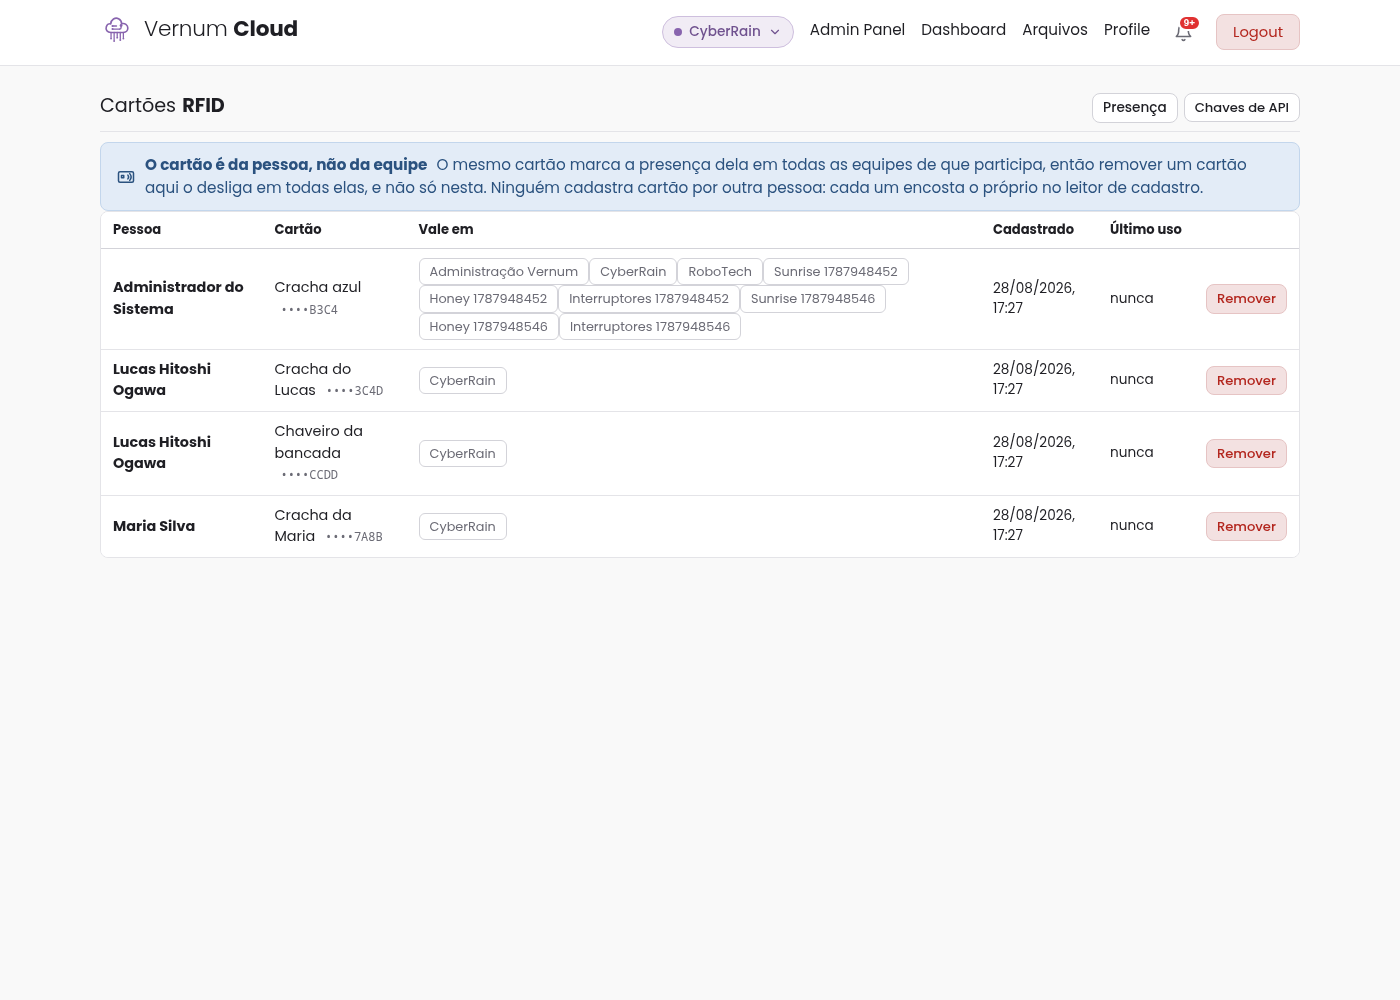
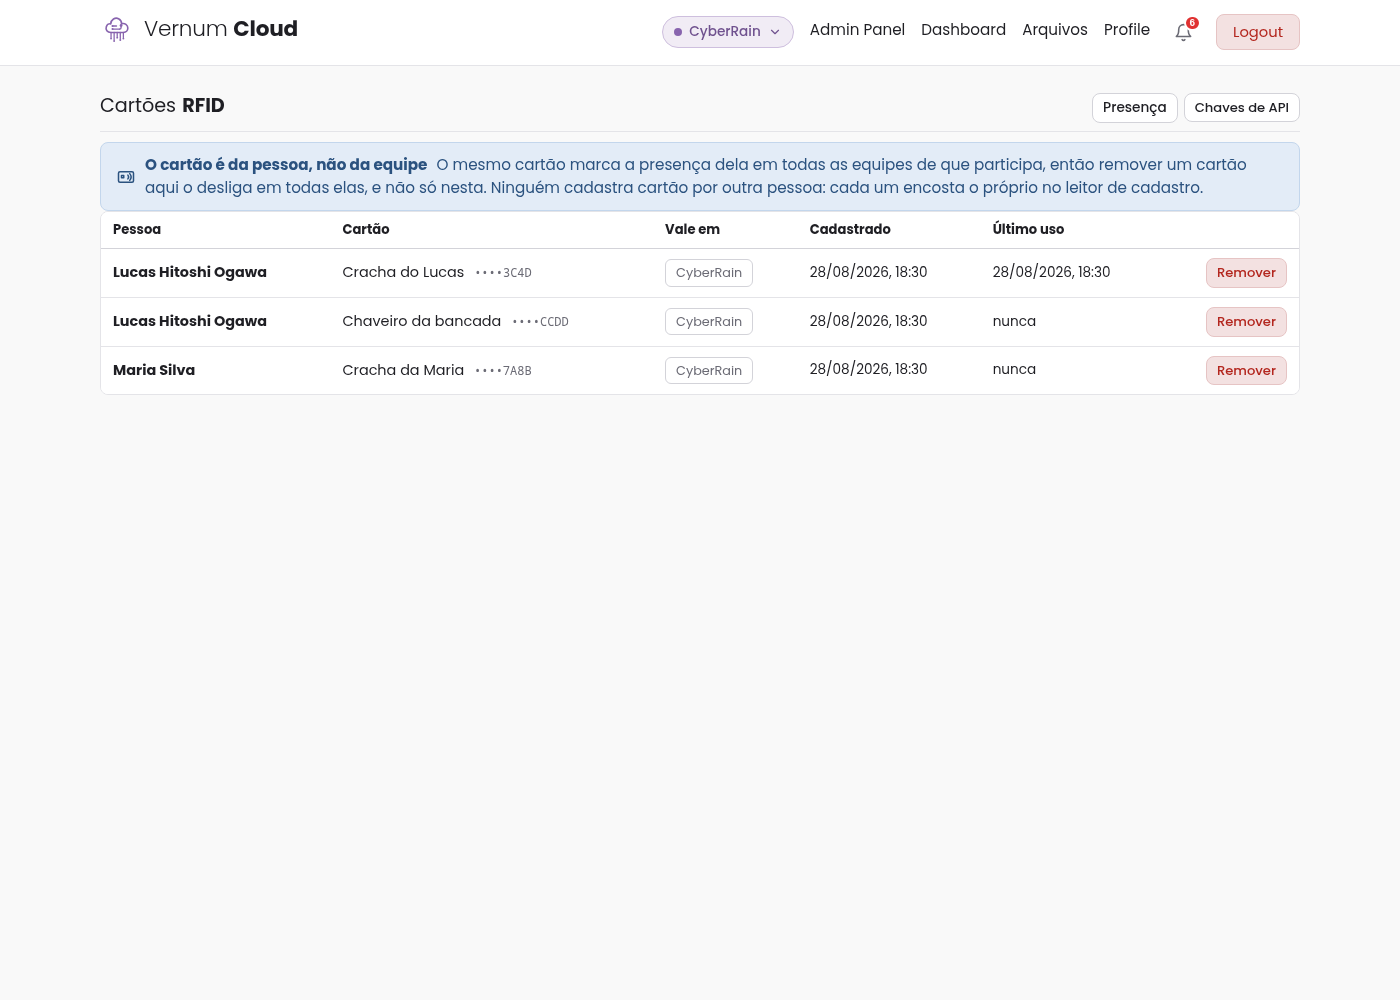
Give a reader key the call a reader actually makes
Whoever is setting up a kiosk needs the team number, and this example was the only
place in the dashboard that writes it down. It now says so — "este e o
VERNUM_TENANT_ID do include/config.h" — and a key that carries RFID_AUTH gets the
reader's own call instead of the generic one, so the thing you copy is the thing
you need.

Checked by driving the screen: the printed curl was pasted verbatim into a shell
and answered 200.

diff --git a/src/views/admin/ApiKeysAdminView.vue b/src/views/admin/ApiKeysAdminView.vue
@@ -99,7 +99,7 @@
       </div>
       <div class="vc-field">
         <label class="vc-label" for="createdExample">Exemplo de uso</label>
-        <textarea id="createdExample" class="vc-textarea keys__example" readonly rows="3"
+        <textarea id="createdExample" class="vc-textarea keys__example" readonly rows="4"
                   :value="example(created.key)"></textarea>
       </div>
       <template #footer>
@@ -205,10 +205,24 @@ async function revoke(key) {
   }
 }
 
+/*
+ * The example is the only place the team number is written down, and whoever is setting up a
+ * reader needs it — so a key that can authenticate cards gets the reader's call instead of the
+ * generic one, and the number to put in include/config.h is right there.
+ */
 function example(key) {
-  return 'curl -H "X-API-Key: ' + key + '" \\\n  '
-    + (process.env.VUE_APP_API_URL || 'http://localhost:8080')
-    + '/tenants/' + auth.activeTenantId + '/attendance/now';
+  const base = process.env.VUE_APP_API_URL || 'http://localhost:8080';
+  const tenant = auth.activeTenantId;
+  const scopes = created.value?.apiKey?.scopes || [];
+  if (scopes.includes('RFID_AUTH')) {
+    return '# equipe #' + tenant + ' — este e o VERNUM_TENANT_ID do include/config.h\n'
+      + 'curl -X POST -H "X-API-Key: ' + key + '" \\\n'
+      + '  -H "Content-Type: application/json" -d \'{"uid":"04A2B3C4"}\' \\\n  '
+      + base + '/tenants/' + tenant + '/rfid/attendance';
+  }
+  return '# equipe #' + tenant + '\n'
+    + 'curl -H "X-API-Key: ' + key + '" \\\n  '
+    + base + '/tenants/' + tenant + '/attendance/now';
 }
 
 function formatWhen(value) {
